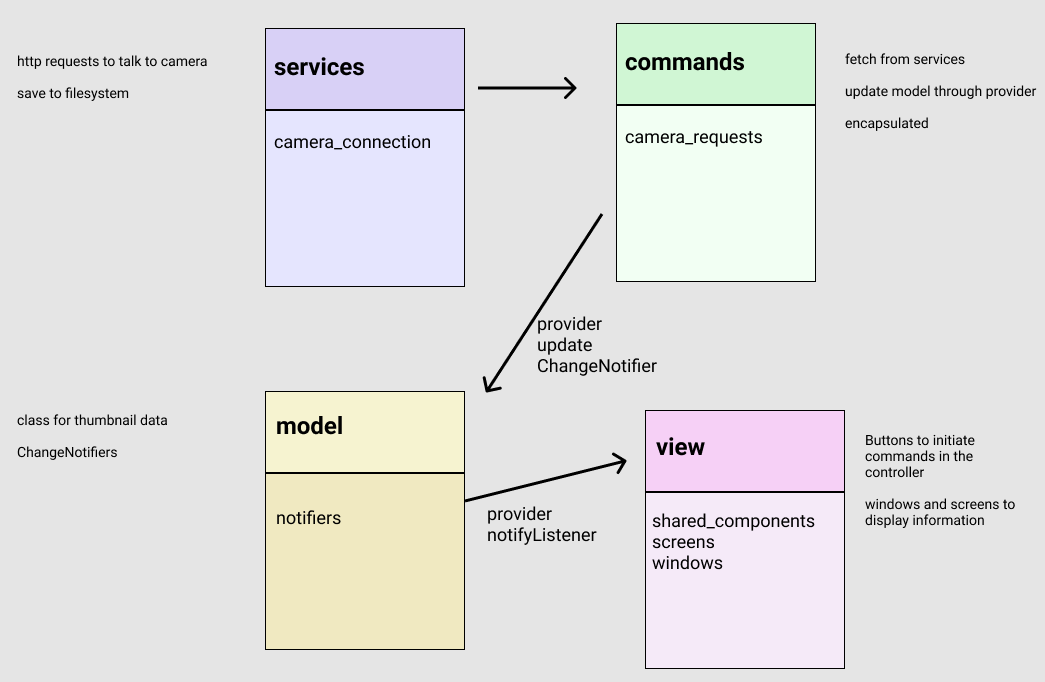
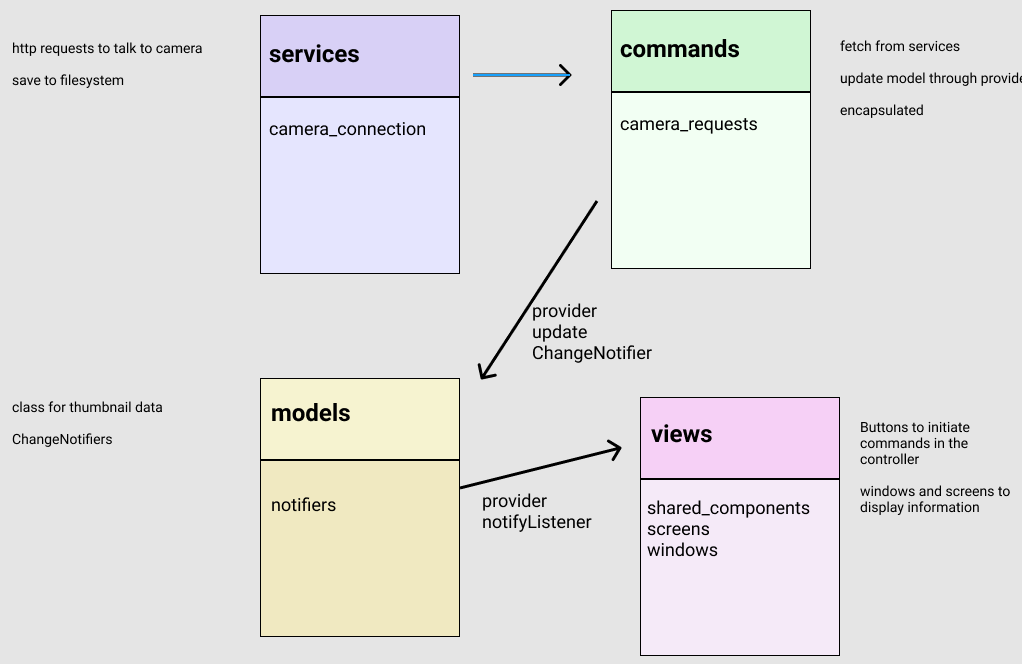
restructured code directories for MVC+S

diff --git a/lib/view/gui_components/list_files_button.dart b/lib/view/gui_components/list_files_button.dart
@@ -1,10 +1,10 @@
 import 'dart:convert';
 
 import 'package:flutter/material.dart';
-import 'package:lf/controller/network/get_thumb_bytes.dart';
-import 'package:lf/controller/network/list_files_request.dart';
-import 'package:lf/controller/notifiers/request_notifier.dart';
-import 'package:lf/controller/notifiers/response_notifier.dart';
+import 'package:lf/commands/get_thumb_bytes.dart';
+import 'package:lf/commands/list_files_request.dart';
+import 'package:lf/models/request_notifier.dart';
+import 'package:lf/models/response_notifier.dart';
 import 'package:provider/provider.dart';
 
 import 'thumbnail.dart';

diff --git a/lib/main.dart b/lib/main.dart
@@ -1,9 +1,9 @@
 import 'package:flutter/material.dart';
-import 'controller/notifiers/response_notifier.dart';
+import 'models/response_notifier.dart';
 import 'package:provider/provider.dart';
 
 import 'view/gui_screens/image_screen.dart';
-import 'controller/notifiers/request_notifier.dart';
+import 'models/request_notifier.dart';
 import 'view/gui_screens/home_screen.dart';
 
 void main() {

diff --git a/lib/commands/get_thumb_bytes.dart b/lib/commands/get_thumb_bytes.dart
@@ -1,6 +1,6 @@
 import 'dart:convert';
-import 'package:lf/model/thumb_info.dart';
-import 'package:lf/controller/network/list_files_request.dart';
+import 'package:lf/models/thumb_info.dart';
+import 'package:lf/commands/list_files_request.dart';
 import 'package:http/http.dart' as http;
 
 Future<List<ThumbInfo>> getThumbBytes(double thumbNumber) async {

diff --git a/lib/view/gui_components/thumbnail.dart b/lib/view/gui_components/thumbnail.dart
@@ -1,7 +1,7 @@
 import 'dart:typed_data';
 
 import 'package:flutter/material.dart';
-import 'package:lf/controller/notifiers/request_notifier.dart';
+import 'package:lf/models/request_notifier.dart';
 import 'package:provider/provider.dart';
 
 class ThumbNail extends StatelessWidget {

diff --git a/lib/view/gui_sections/request/request_settings_window.dart b/lib/view/gui_sections/request/request_settings_window.dart
@@ -1,5 +1,5 @@
 import 'package:flutter/material.dart';
-import 'package:lf/controller/notifiers/request_notifier.dart';
+import 'package:lf/models/request_notifier.dart';
 import 'package:provider/provider.dart';
 
 class RequestSettingsWindow extends StatelessWidget {

diff --git a/lib/view/gui_sections/response/response_window.dart b/lib/view/gui_sections/response/response_window.dart
@@ -1,5 +1,5 @@
 import 'package:flutter/material.dart';
-import 'package:lf/controller/notifiers/response_notifier.dart';
+import 'package:lf/models/response_notifier.dart';
 import 'package:provider/provider.dart';
 
 class ResponseWindow extends StatelessWidget {

diff --git a/lib/view/gui_screens/image_screen.dart b/lib/view/gui_screens/image_screen.dart
@@ -1,5 +1,5 @@
 import 'package:flutter/material.dart';
-import 'package:lf/controller/notifiers/request_notifier.dart';
+import 'package:lf/models/request_notifier.dart';
 import 'package:panorama/panorama.dart';
 import 'package:provider/provider.dart';
 

diff --git a/lib/view/gui_sections/request/request_window.dart b/lib/view/gui_sections/request/request_window.dart
@@ -1,5 +1,5 @@
 import 'package:flutter/material.dart';
-import 'package:lf/controller/notifiers/request_notifier.dart';
+import 'package:lf/models/request_notifier.dart';
 import 'package:provider/provider.dart';
 
 import 'request_button_group.dart';

diff --git a/lib/services/camera_connection.dart b/lib/services/camera_connection.dart
@@ -1,0 +1,1 @@
+import 'package:http/http.dart';
